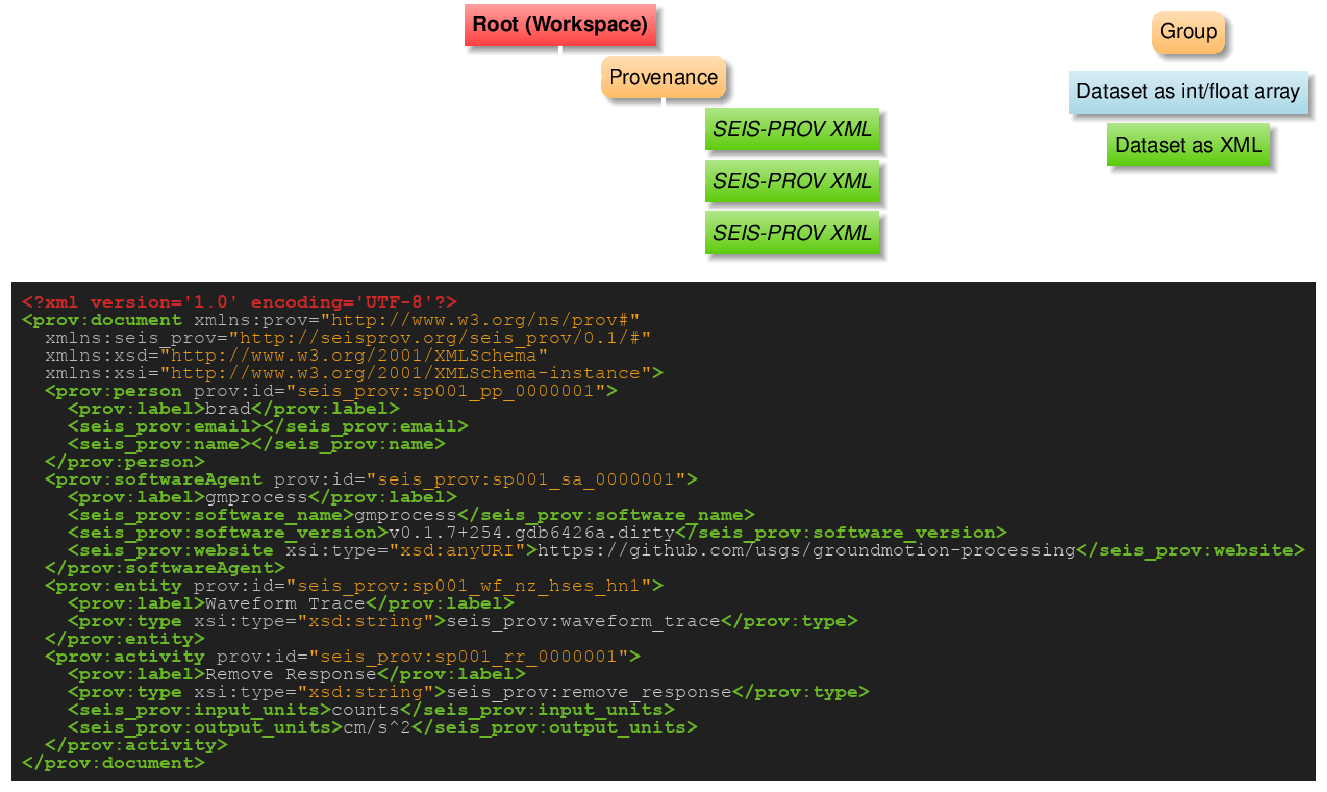
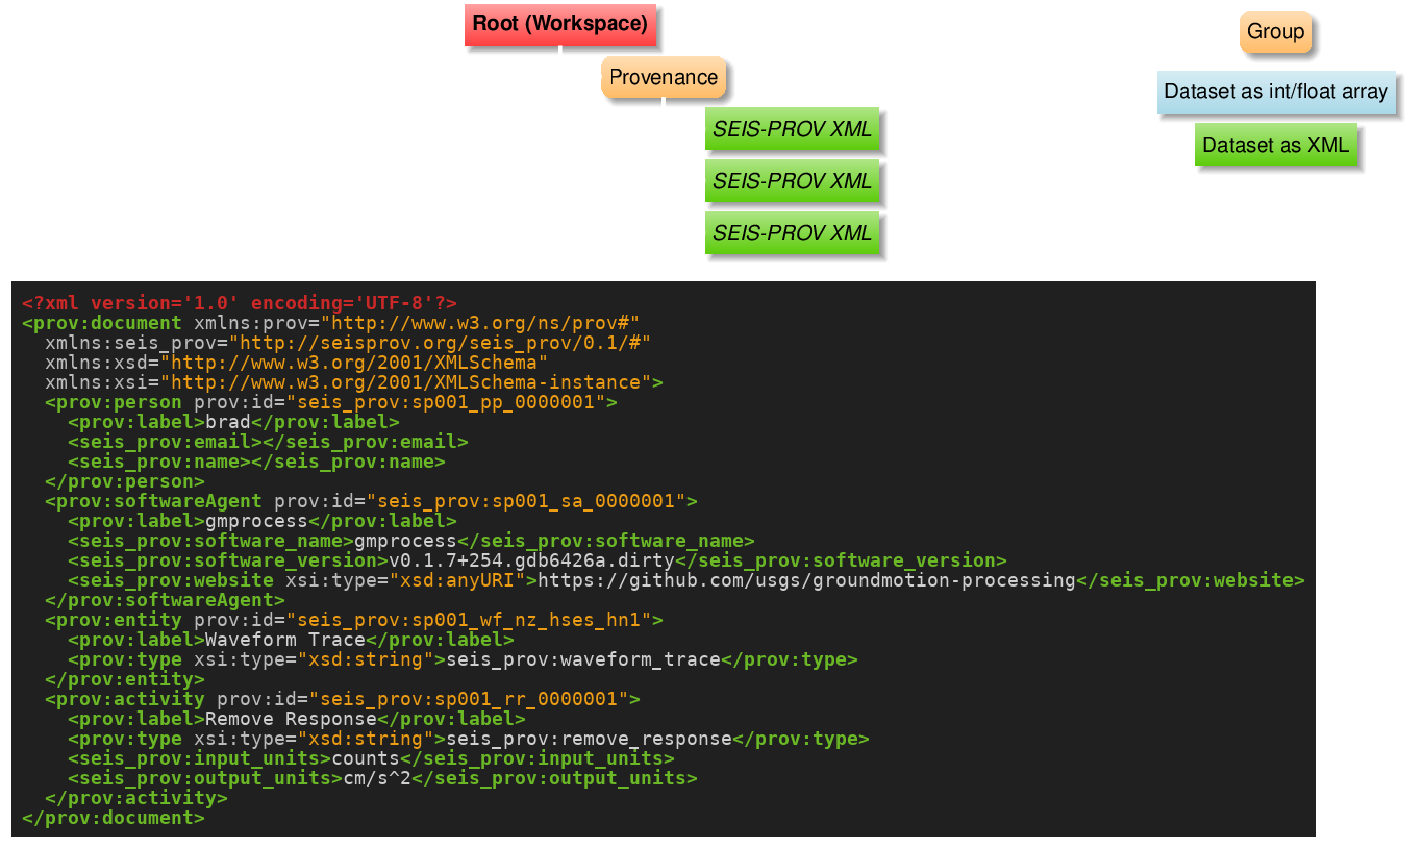
Cleanup figures. Add figures for waveform and station metrics.

Changed region(s): [[0.0, 0.0, 1.0, 1.0], [0.8033, 0.0, 1.0, 0.2424]]

diff --git a/presentations/2019-SSA-ASDF/figs/asdf_layout_waveformmetrics.tex b/presentations/2019-SSA-ASDF/figs/asdf_layout_waveformmetrics.tex
@@ -1,0 +1,55 @@
+\documentclass[tikz, border=2pt]{standalone}
+\usepackage[none]{hyphenat}
+\usepackage{helvet}
+\renewcommand{\familydefault}{phv}
+
+\begin{document}
+\pagestyle{empty}
+
+\input{palettes/palette_general}
+\input{palettes/palette_usgs}
+
+\input{asdf_layout_base}
+
+\begin{tikzpicture}[diagram]
+
+  \node (workspace) [root] {Root (Workspace)};
+
+  % Events
+  \node (events) [below=of workspace.center, dataset, xml, subset-right] {QuakeML};
+  \draw[arrowto] (workspace.south) |- (events.west);
+
+  % Auxiliary data
+  \node (auxdata) [below=of workspace.center, group, subset-right] {AuxiliaryData};
+  \draw[arrowto] (workspace.south) |- (auxdata.west);
+
+  % Waveform metrics (directly associated with waveforms, so use same dataset naming scheme)
+  \node (wf-metrics) [below=of auxdata.center, group, subset-right] {WaveformMetrics};
+  \draw[arrowto] (auxdata.south) |- (wf-metrics.west);
+
+  \node (wm-st0) [below=of wf-metrics.center, group, subset-right] {\variable{NET.STA}};
+  \node (wm-st0-wf0) [below=of wm-st0.center, dataset, xml, subset-right] {\variable{NET.STA.LOC.CHA\duscore{}START\duscore{}END\duscore{}WTAG\duscore{}TAG}};
+  \node (wm-st0-wf1) [below=of wm-st0-wf0.west, dataset, xml] {\variable{NET.STA.LOC.CHA\duscore{}START\duscore{}END\duscore{}WTAG\duscore{}TAG}};
+  \node (wm-st1) [below=of wm-st0.west, group, yshift=-5.0em] {\variable{NET.STA}};
+  \node (wm-st1-wf0) [below=of wm-st1.center, dataset, xml, subset-right] {\variable{NET.STA.LOC.CHA\duscore{}START\duscore{}END\duscore{}WTAG\duscore{}TAG}};
+  \draw[arrowto] (wf-metrics.south) |- (wm-st0.west);
+  \draw[arrowto] (wm-st0.south) |- (wm-st0-wf0.west);
+  \draw[arrowto] (wm-st0.south) |- (wm-st0-wf1.west);
+  \draw[arrowto] (wf-metrics.south) |- (wm-st1.west);
+  \draw[arrowto] (wm-st1.south) |- (wm-st1-wf0.west);
+  
+  % Legend
+  \matrix [draw=white,below left, row sep=0.5em] at ($(workspace.north east)+(36em,0)$) {
+    \node [group, legend] {Group}; \\[4pt]
+    \node [dataset, legend] {Dataset as int/float array}; \\
+    \node [dataset, xml, legend] {Dataset as XML}; \\
+  };
+
+\node [rectangle, draw=white, yshift=-1.0em, anchor=north] at (current bounding box.south) {\includegraphics[scale=0.5]{asdf_waveformmetricsxml}};
+  
+
+  
+\end{tikzpicture}
+
+\end{document}
+

diff --git a/presentations/2019-SSA-ASDF/figs/asdf_layout_stationmetrics.tex b/presentations/2019-SSA-ASDF/figs/asdf_layout_stationmetrics.tex
@@ -1,0 +1,52 @@
+\documentclass[tikz, border=2pt]{standalone}
+\usepackage[none]{hyphenat}
+\usepackage{helvet}
+\renewcommand{\familydefault}{phv}
+
+\begin{document}
+\pagestyle{empty}
+
+\input{palettes/palette_general}
+\input{palettes/palette_usgs}
+
+\input{asdf_layout_base}
+
+\begin{tikzpicture}[diagram]
+
+  \node (workspace) [root] {Root (Workspace)};
+
+  % Auxiliary data
+  \node (auxdata) [below=of workspace.center, group, subset-right] {AuxiliaryData};
+  \draw[arrowto] (workspace.south) |- (auxdata.west);
+
+  % Station metrics
+  \node (st-metrics) [below=of auxdata.center, group, subset-right] {StationMetrics};
+  \node (sm-st0) [below=of st-metrics.center, group, subset-right] {\variable{NET.STA}};
+  \node (sm-st0-eq0) [below=of sm-st0.center, dataset, xml, subset-right] {\variable{NET.STA\duscore{}EVENTID\duscore{}TAG}};
+  \node (sm-st0-eq1) [below=of sm-st0-eq0.west, dataset, xml] {\variable{NET.STA\duscore{}EVENTID\duscore{}TAG}};
+  \node (sm-st1) [below=of sm-st0.west, group, yshift=-5em] {\variable{NET.STA}};
+  \node (sm-st1-eq0) [below=of sm-st1.center, dataset, xml, subset-right] {\variable{NET.STA\duscore{}EVENTID\duscore{}TAG}};
+  \node (sm-st1-eq1) [below=of sm-st1-eq0.west, dataset, xml] {\variable{NET.STA\duscore{}EVENTID\duscore{}TAG}};
+  \draw[arrowto] (auxdata.south) |- (st-metrics.west);
+  \draw[arrowto] (st-metrics.south) |- (sm-st0.west);
+  \draw[arrowto] (sm-st0.south) |- (sm-st0-eq0.west);
+  \draw[arrowto] (sm-st0.south) |- (sm-st0-eq1.west);
+  \draw[arrowto] (st-metrics.south) |- (sm-st1.west);
+  \draw[arrowto] (sm-st1.south) |- (sm-st1-eq0.west);
+  \draw[arrowto] (sm-st1.south) |- (sm-st1-eq1.west);
+
+
+  % Legend
+  \matrix [draw=white,below left, row sep=0.5em] at ($(workspace.north east)+(36em,0)$) {
+    \node [group, legend] {Group}; \\[4pt]
+    \node [dataset, legend] {Dataset as int/float array}; \\
+    \node [dataset, xml, legend] {Dataset as XML}; \\
+  };
+
+\node [rectangle, draw=white, yshift=-1.0em, anchor=north] at (current bounding box.south) {\includegraphics[scale=0.5]{asdf_stationmetricsxml}};
+
+  
+\end{tikzpicture}
+
+\end{document}
+

diff --git a/presentations/2019-SSA-ASDF/figs/asdf_layout_waveforms.tex b/presentations/2019-SSA-ASDF/figs/asdf_layout_waveforms.tex
@@ -15,12 +15,8 @@
 
   \node (workspace) [root] {Root (Workspace)};
 
-  % Events
-  \node (events) [below=of workspace.center, dataset, xml, subset-right] {QuakeML};
-  \draw[arrowto] (workspace.south) |- (events.west);
-
   % Waveforms
-  \node (waveforms) [below=of events.west, group] {Waveforms};
+  \node (waveforms) [below=of workspace.center, group, subset-right] {Waveforms};
   \draw[arrowto] (workspace.south) |- (waveforms.west);
 
   \node (wf-st0) [below=of waveforms.center, group, subset-right] {\variable{NET.STA}};
@@ -38,20 +34,6 @@
   \draw[arrowto] (waveforms.south) |- (wf-st1.west);
   \draw[arrowto] (wf-st1.south) |- (st1-metadata.west);
   \draw[arrowto] (wf-st1.south) |- (wf-st1-data0.west);
-
-  % Auxiliary data
-  \node (auxdata) [below=of waveforms.west, group, yshift=-18em] {AuxiliaryData};
-  \draw[arrowto] (workspace.south) |- (auxdata.west);
-
-  % Provenance
-  \node (provenance) [below=of auxdata.west, group, yshift=-0em] {Provenance};
-  \node (prov0) [below=of provenance.center, dataset, xml, subset-right] {\variable{SEIS-PROV XML}};
-  \node (prov1) [below=of prov0.west, dataset, xml] {]variable{SEIS-PROV XML}};
-  \node (prov2) [below=of prov1.west, dataset, xml] {]variable{SEIS-PROV XML}};
-  \draw[arrowto] (workspace.south) |- (provenance.west);
-  \draw[arrowto] (provenance.south) |- (prov0.west);
-  \draw[arrowto] (provenance.south) |- (prov1.west);
-  \draw[arrowto] (provenance.south) |- (prov2.west);
 
   % Legend
   \matrix [draw=white,below left, row sep=0.5em] at ($(workspace.north east)+(36em,0)$) {

diff --git a/presentations/2019-SSA-ASDF/figs/make_code_images.py b/presentations/2019-SSA-ASDF/figs/make_code_images.py
@@ -35,6 +35,29 @@ class H5App(object):
         with h5py.File("asdf_test.h5", "r") as h5:
             self.xml_to_png(h5["QuakeML"][:], "asdf_quakeml.png")
             self.xml_to_png(h5["Provenance"]["hses_foo_nz_hses_hn1"][:], "asdf_provxml.png")
+
+        return
+
+
+class XMLApp(object):
+
+    @staticmethod
+    def xml_to_png(xml, png_filename):
+
+        formatter = pygments.formatters.ImageFormatter(
+            style="native", image_format="png", font_size=18, line_numbers=False)
+        lexer = pygments.lexers.XmlLexer()
+
+        pygments.highlight(xml, lexer, formatter, outfile=png_filename)
+        return
+
+    def run(self):
+        with open("waveform_metrics.xml", "r") as fin:
+            self.xml_to_png(fin.read(), "asdf_waveformmetricsxml.png")
+
+        with open("station_metrics.xml", "r") as fin:
+            self.xml_to_png(fin.read(), "asdf_stationmetricsxml.png")
+
         return
 
 
@@ -56,3 +79,4 @@ class PythonApp(object):
 if __name__ == "__main__":
     H5App().run()
     PythonApp().run()
+    XMLApp().run()

diff --git a/presentations/2019-SSA-ASDF/figs/asdf_layout.tex b/presentations/2019-SSA-ASDF/figs/asdf_layout.tex
@@ -172,7 +172,7 @@ font={\bfseries},
   \draw[arrowto] (provenance.south) |- (prov2.west);
 
   % Legend
-  \matrix [draw,below left, row sep=0.5em] at (current bounding box.north east) {
+  \matrix [draw=white,below left, row sep=0.5em] at ($(workspace.north east)+(36em,0)$) {
     \node [group, legend] {Group}; \\[4pt]
     \node [dataset, legend] {Dataset as int/float array}; \\
     \node [dataset, xml, legend] {Dataset as XML}; \\

diff --git a/presentations/2019-SSA-ASDF/figs/asdf_layout_provenance.tex b/presentations/2019-SSA-ASDF/figs/asdf_layout_provenance.tex
@@ -26,7 +26,7 @@
   \draw[arrowto] (provenance.south) |- (prov2.west);
 
   % Legend
-  \matrix [draw=white,below left, row sep=0.5em] at  ($(current bounding box.north east)+(21em,0)$) {
+  \matrix [draw=white,below left, row sep=0.5em] at ($(workspace.north east)+(36em,0)$) {
     \node [group, legend] {Group}; \\[4pt]
     \node [dataset, legend] {Dataset as int/float array}; \\
     \node [dataset, xml, legend] {Dataset as XML}; \\

diff --git a/presentations/2019-SSA-ASDF/figs/asdf_layout_eqsrc.tex b/presentations/2019-SSA-ASDF/figs/asdf_layout_eqsrc.tex
@@ -22,7 +22,7 @@
 
 
   % Legend
-  \matrix [draw=white,below left, row sep=0.5em] at ($(current bounding box.north east)+(21em,0)$) {
+  \matrix [draw=white,below left, row sep=0.5em] at ($(workspace.north east)+(36em,0)$) {
     \node [group, legend] {Group}; \\[4pt]
     \node [dataset, legend] {Dataset as int/float array}; \\
     \node [dataset, xml, legend] {Dataset as XML}; \\
